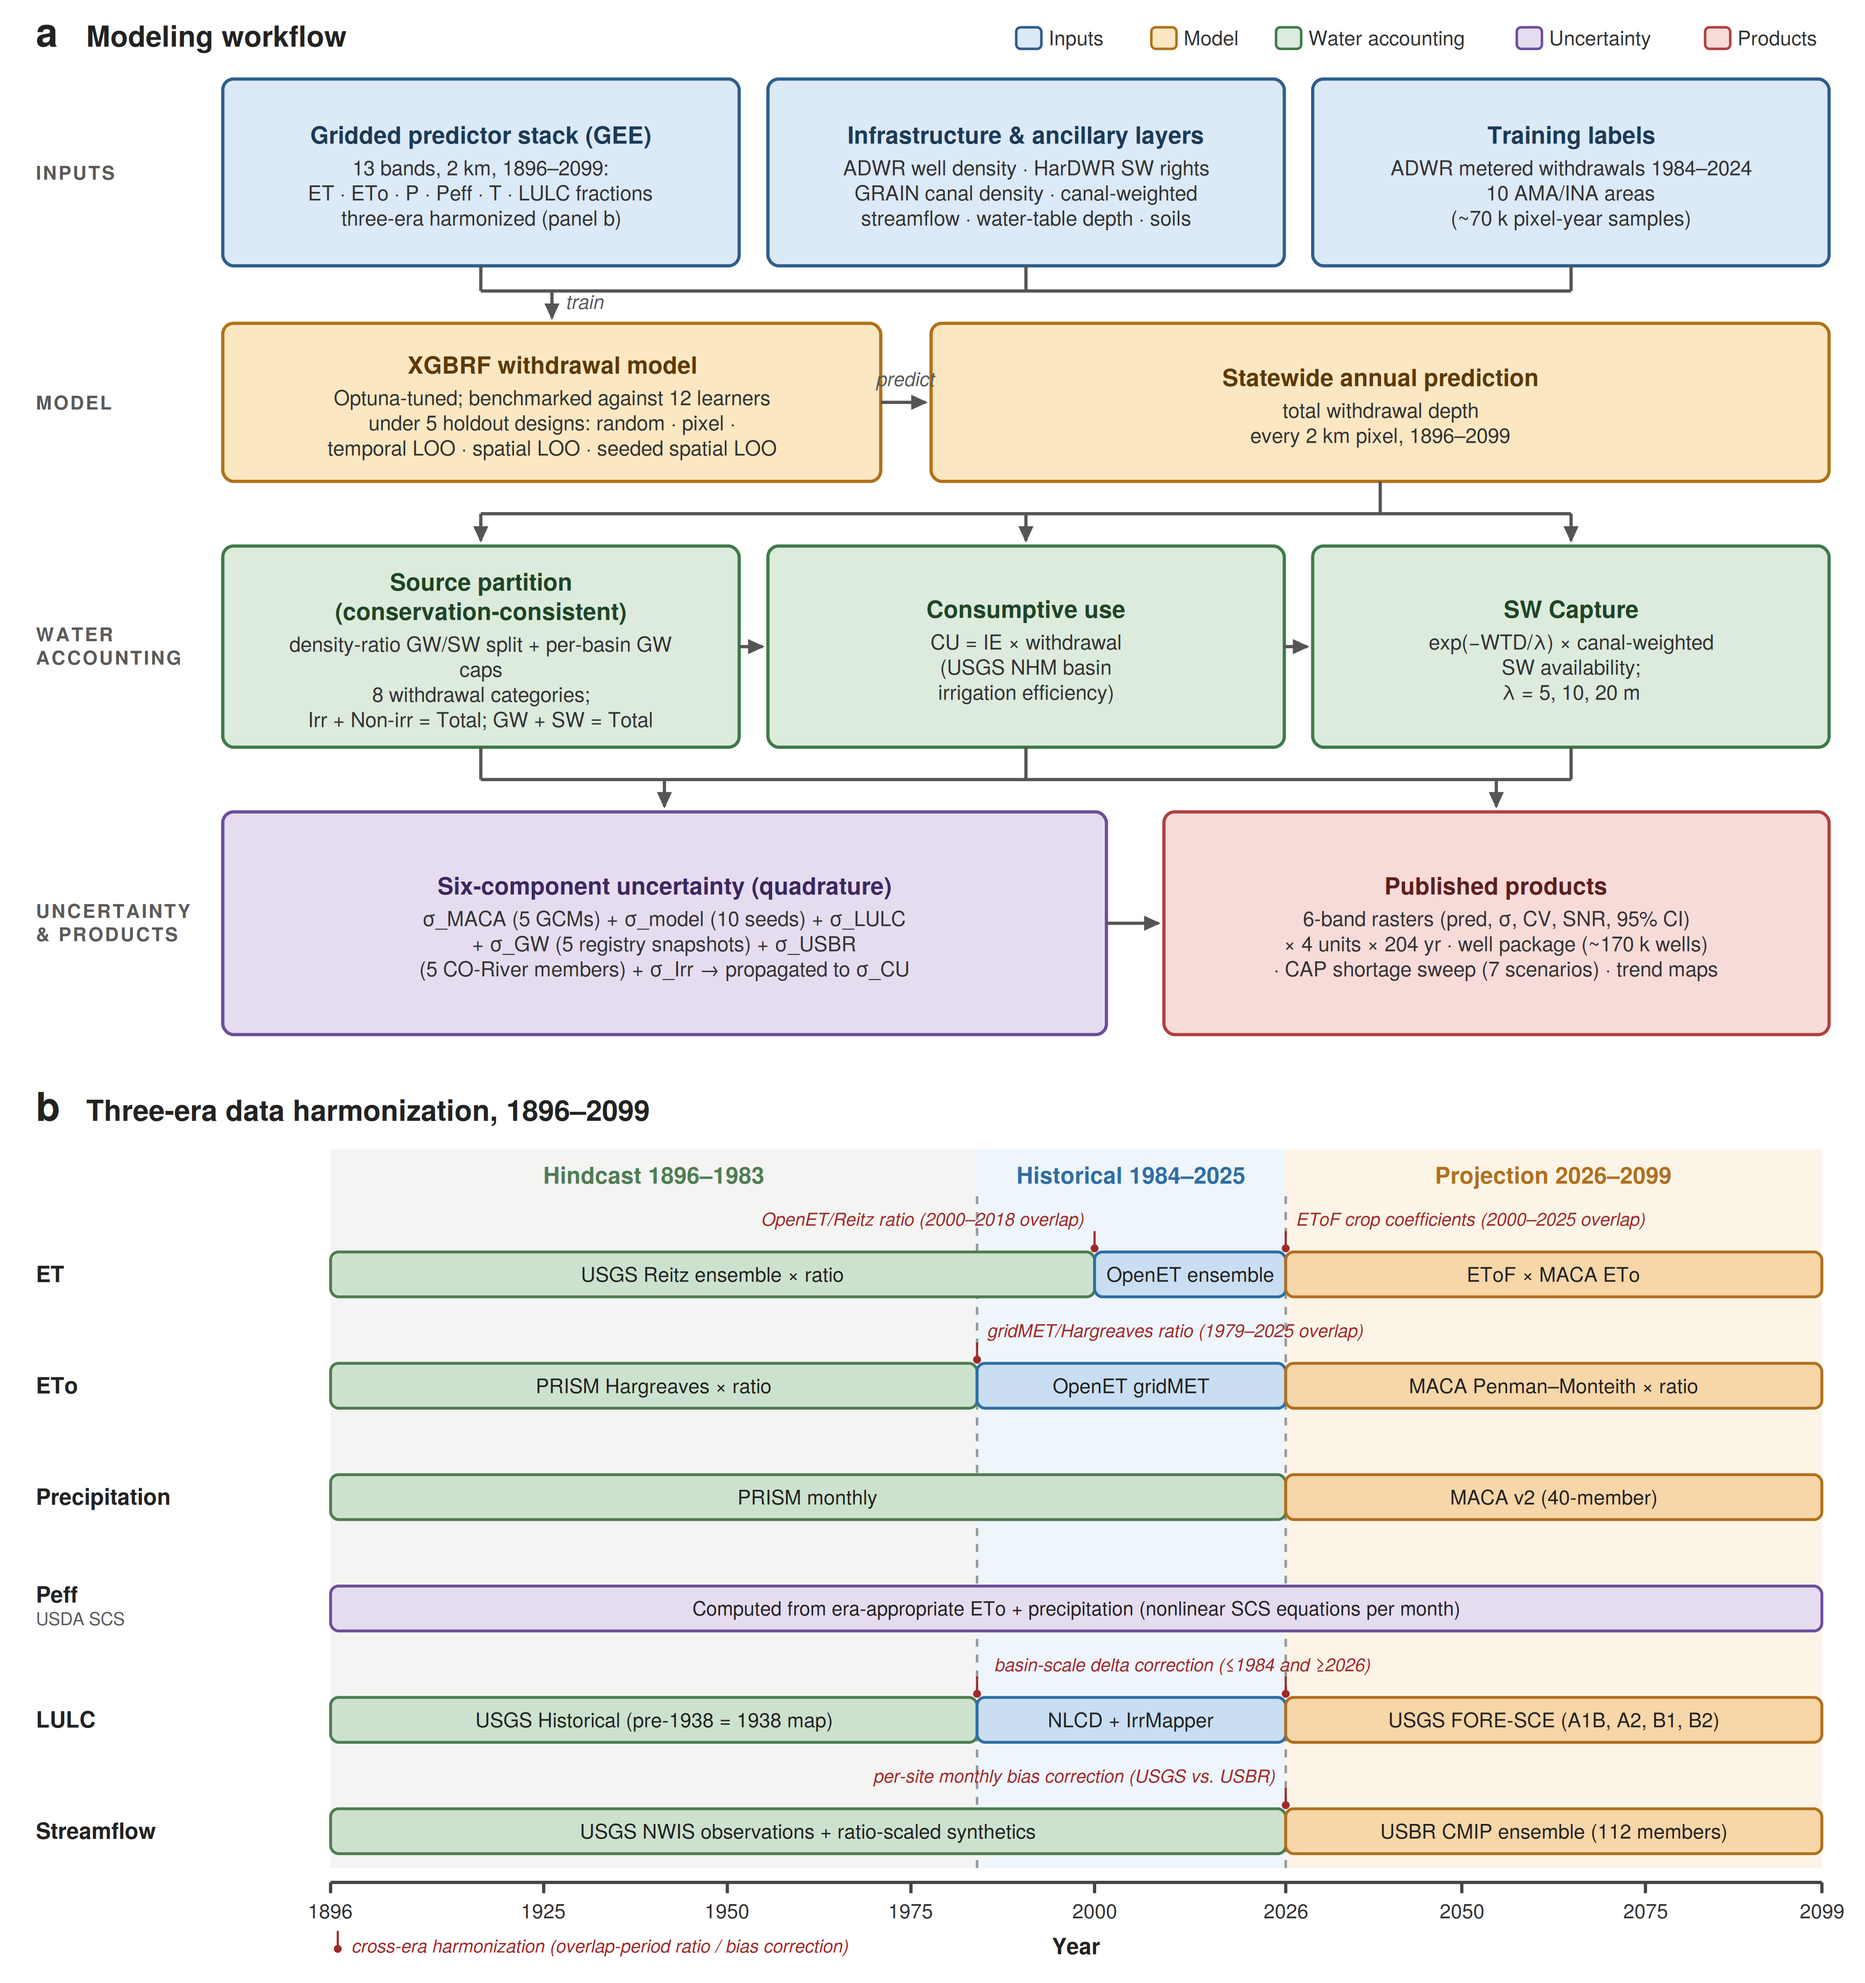
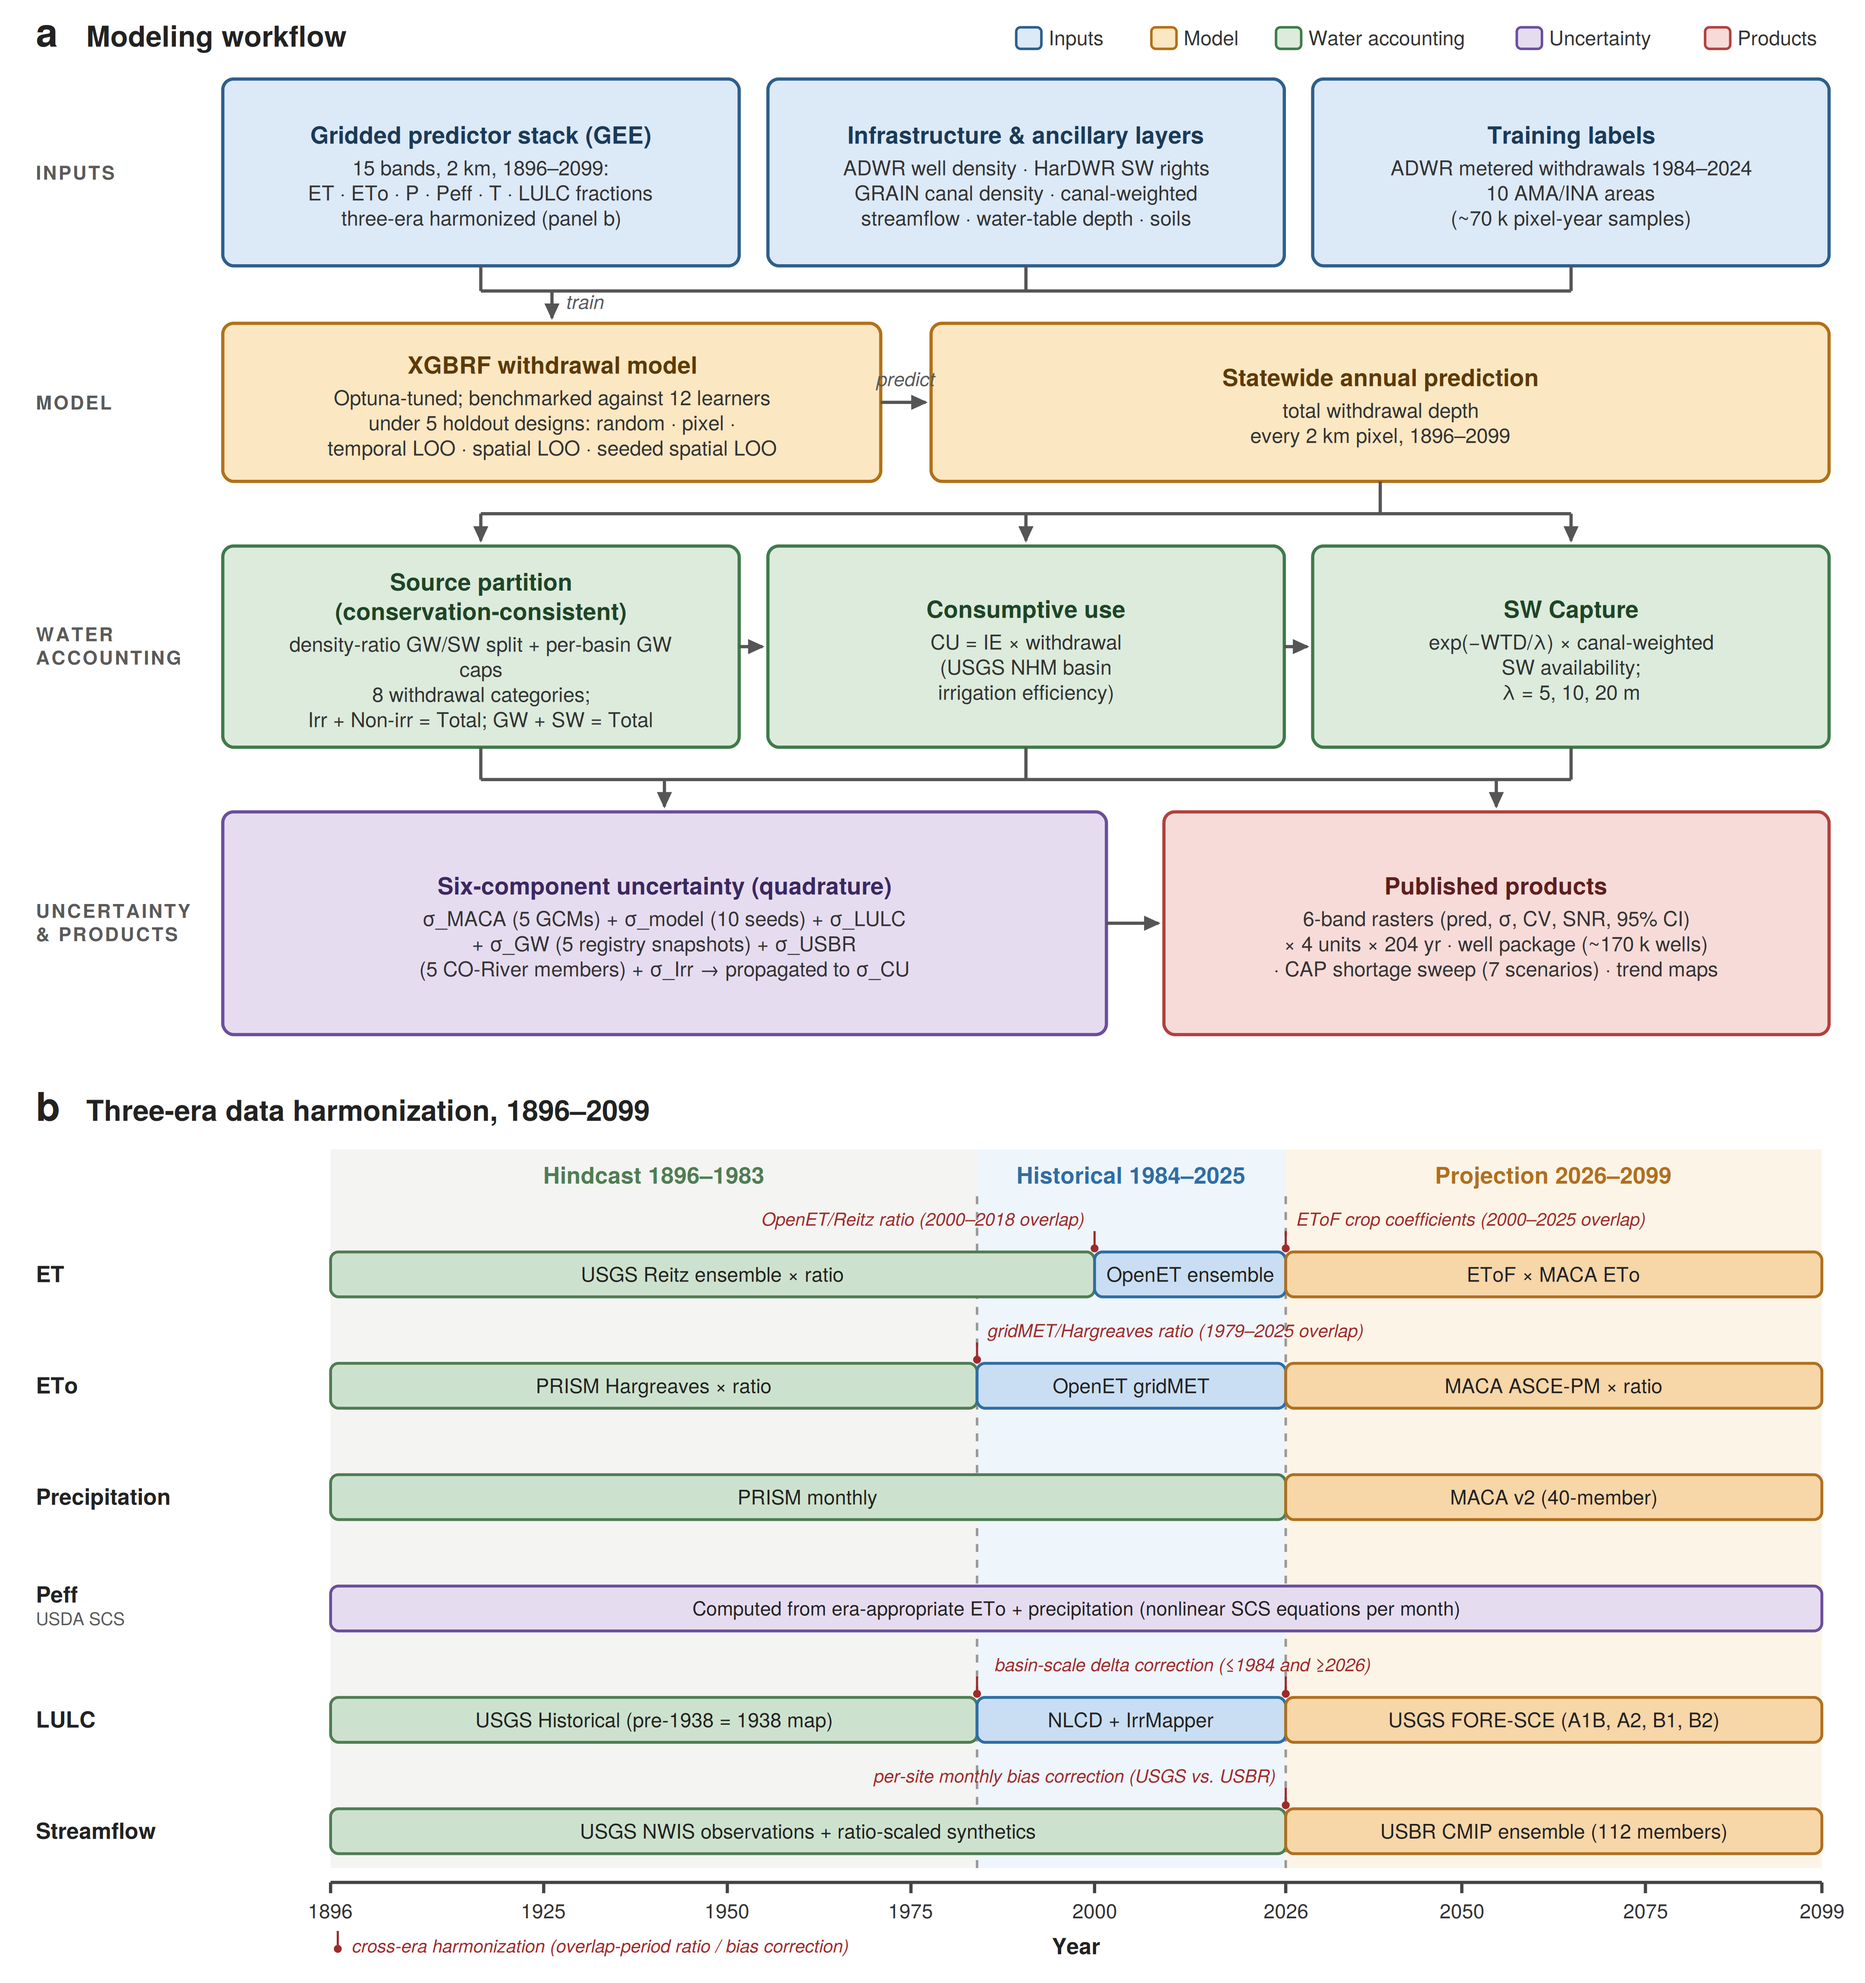
Update readme

Changed region(s): [[0.7803, 0.6839, 0.9052, 0.715]]

diff --git a/gee/README.md b/gee/README.md
@@ -521,7 +521,7 @@ The pipeline uses two distinct upload paths:
 | [`upload_to_gee.sh`](upload_to_gee.sh) | Batch raster upload.  Iterates every `metadata.csv`, runs `geeup upload --workers 10 --resume` on each.  Per-source logs in `gee/upload_logs/`.  Supports `--dry-run` and `--filter <pattern>`. |
 | [`pivot_to_csv.py`](pivot_to_csv.py) | Pivot the Well_Package long-format GeoParquet (170,137 wells × 204 years × 15 categories, ~2.1 GB) into 15 per-category CSVs at `gee/Data/Well_Package/csv/Well_Package__<Cat>.csv`.  Each row carries a `.geo` column (GeoJSON Point), `REGISTRY_I`, `WATER_USE`, plus year-stamped property columns (`<Cat>_AF_<year>`, `<Cat>_AF_sigma_<year>`) — ~412 properties / row.  Paths anchored to the script location, so it runs from any cwd.  ~5–10 min per category on 64 GB RAM. |
 | [`upload_well_package.sh`](upload_well_package.sh) | Loops the 15 CSVs: `gsutil cp` to `gs://azhydro/Well_Package__<Cat>.csv`, then `earthengine upload table --asset_id=projects/azhydro/assets/az-wu/Well_Package__<Cat>` to ingest each.  Per-stage log: `gee/upload_logs/Well_Package_upload.log`.  `--dry-run` and `--filter <pattern>` flags.  Cleanup hint at the end (`gsutil -m rm`). |
-| [`pivot_cap_cumulative.py`](pivot_cap_cumulative.py) | Pivot `Data/Outputs/.../CAP_Scenario/CAP_Scenario_Cumulative.csv` (long format, ~27 k rows) into a wide-format CSV with `.geo` column: 364 features (52 basins × 7 scenarios), `Cum_<year>` columns covering 2026–2099, basin centroid as the geometry. |
+| [`pivot_cap_cumulative.py`](pivot_cap_cumulative.py) | Pivot `Data/Outputs/.../CAP_Scenario/CAP_Scenario_Cumulative.csv` (long format, ~27 k rows) into a wide-format CSV with `.geo` column: 364 features (52 basin polygons × 7 scenarios), `Cum_<year>` columns covering 2026–2099, basin centroid as the geometry. |
 | [`upload_cap_cumulative.sh`](upload_cap_cumulative.sh) | Stage the CSV to `gs://azhydro/CAP_Scenario_Cumulative.csv` and ingest as `projects/azhydro/assets/az-wu/CAP_Scenario_Cumulative`.  The visualizer reads this asset on every CAP click to chart all 7 scenarios for the basin. |
 | [`cap_service_area_to_csv.py`](cap_service_area_to_csv.py) | Convert the CAP service-area polygon GeoJSON (3 polygons, MARICOPA / PIMA / PINAL) into `gee/Data/CAP/CAP.csv` with a `.geo` GeoJSON-string column (polygon geometry preserved exactly). |
 | [`upload_cap_service_area.sh`](upload_cap_service_area.sh) | Stage to `gs://azhydro/CAP.csv` and ingest as `projects/azhydro/assets/az-wu/CAP`.  Asset is consumed by the visualizer as the CAP-eligible county overlay layer. |
@@ -609,13 +609,13 @@ Augmented (`SW_Capture__*_Rasters`) follow the same 6-band convention and 4 unit
 | Asset | Contents |
 |---|---|
 | `Well_Package__<Cat>` (15) | One per category: ~170 k well features, each with `REGISTRY_I`, `WATER_USE`, `.geo` geometry, plus year-stamped `<Cat>_AF_<year>` and `<Cat>_AF_sigma_<year>` properties (1896–2099).  Capacity-disaggregated per-well values from the published parquet. |
-| `CAP_Scenario_Cumulative` | 364 features (52 basins × 7 scenarios), each with `Basin`, `Scenario`, `.geo` (basin centroid Point), and year-stamped `Cum_<year>` properties for 2026–2099.  Powers the per-basin × 7-scenario time-series chart in CAP click mode. |
+| `CAP_Scenario_Cumulative` | 364 features (52 basin polygons × 7 scenarios), each with `Basin`, `Scenario`, `.geo` (basin centroid Point), and year-stamped `Cum_<year>` properties for 2026–2099.  Powers the per-basin × 7-scenario time-series chart in CAP click mode. |
 
 #### Vector overlay layers
 
 | Asset | Contents |
 |---|---|
-| `Groundwater_Basin` | 52 GW-basin polygons (`BASIN_NAME` property).  Visualizer filters into AMA / INA / other groups by exact name match for distinct styling. |
+| `Groundwater_Basin` | 52 GW-basin polygons (`BASIN_NAME` property; spanning Arizona's 51 ADWR groundwater basins).  Visualizer filters into AMA / INA / other groups by exact name match for distinct styling. |
 | `ADWR_Groundwater_Subbasin` | 82 sub-basin polygons (`SUBBASIN_N` property) |
 | `Well_Registry_2024` | ADWR well-registry points; powers the nearest-well lookup on click |
 | `CAP` | 3 CAP-eligible county polygons (Maricopa, Pima, Pinal) with `NAME` property; rendered as dashed outlines in the visualizer |

diff --git a/Data/README.md b/Data/README.md
@@ -72,7 +72,7 @@ hydrologic ancillary vectors.
 | `CAP/CAP_Service_Area.geojson` | Central Arizona Project service area polygon (3 county sub-units: Maricopa / Pima / Pinal).  Drives the per-pixel CAP delivery perturbation in `apply_cap_delivery_perturbation`. |
 | `CAP/CAP Delivery Data DRI Request.xlsx` | Annual CAP delivery volumes by sub-contractor / category, supplied by CAP for the AZ-Hydro project (1985–2024). |
 | `GRAIN_v.1.0/GeoParquet/us-west_GRAIN_v.1.0.parquet` | Western-US subset of the GRAIN canal-network database from Suresh et al. (2026), *Earth System Science Data* 18(3), 1855–1875.  DOI: [10.5194/essd-18-1855-2026](https://doi.org/10.5194/essd-18-1855-2026).  Bundled here (~55 MB after extracting only the western-US tile) — used to build the `canal_density` predictor.  The full release is available at the source DOI; replace this folder with a fresh download if you need other regions. |
-| `Groundwater_Basin/` | Statewide GW basin polygons shapefile (52 basins) — primary basin aggregation unit. |
+| `Groundwater_Basin/` | Statewide GW basin polygons shapefile (52 basin/management-area polygons spanning Arizona's 51 ADWR groundwater basins) — primary basin aggregation unit. |
 | `Meter Data/GW_<year>.csv` | Per-year ADWR meter records (1984–2024, one CSV per year, 41 files).  Each row = one well-year with reported `AF Pumped`, lat/lon, basin, etc.  These are the primary training labels for the ML model. |
 | `SRP/SRP WATER DELVS HISTORY.xlsx` | Salt River Project annual delivery history (used to validate Phoenix AMA SW totals). |
 | `Streamflow/` | USGS gauge monthly streamflow for the Colorado River system (HCDN reference + USBR sites; 8 stations, 1896-present where available).  Used in σ_USBR and Lees Ferry inflow context. |

diff --git a/azhydro/README.md b/azhydro/README.md
@@ -1351,7 +1351,7 @@ and sub-basin scales:
 
 | Spatial level | Categories included | File pattern |
 |---|---|---|
-| Basin (52 ADWR basins) | Total_Predicted, Total_GW, Total_SW, Irrigation_GW, Irrigation_SW, Non_Irrigation_GW, Non_Irrigation_SW, Irrigation_CU | `Basin_<category>.csv` |
+| Basin (52 polygons; AZ's 51 ADWR basins) | Total_Predicted, Total_GW, Total_SW, Irrigation_GW, Irrigation_SW, Non_Irrigation_GW, Non_Irrigation_SW, Irrigation_CU | `Basin_<category>.csv` |
 | Sub-basin (82 ADWR sub-basins) | same 8 categories | `Subbasin_<category>.csv` |
 
 Schema is identical to the per-basin / per-sub-basin `*_Annual.csv`
